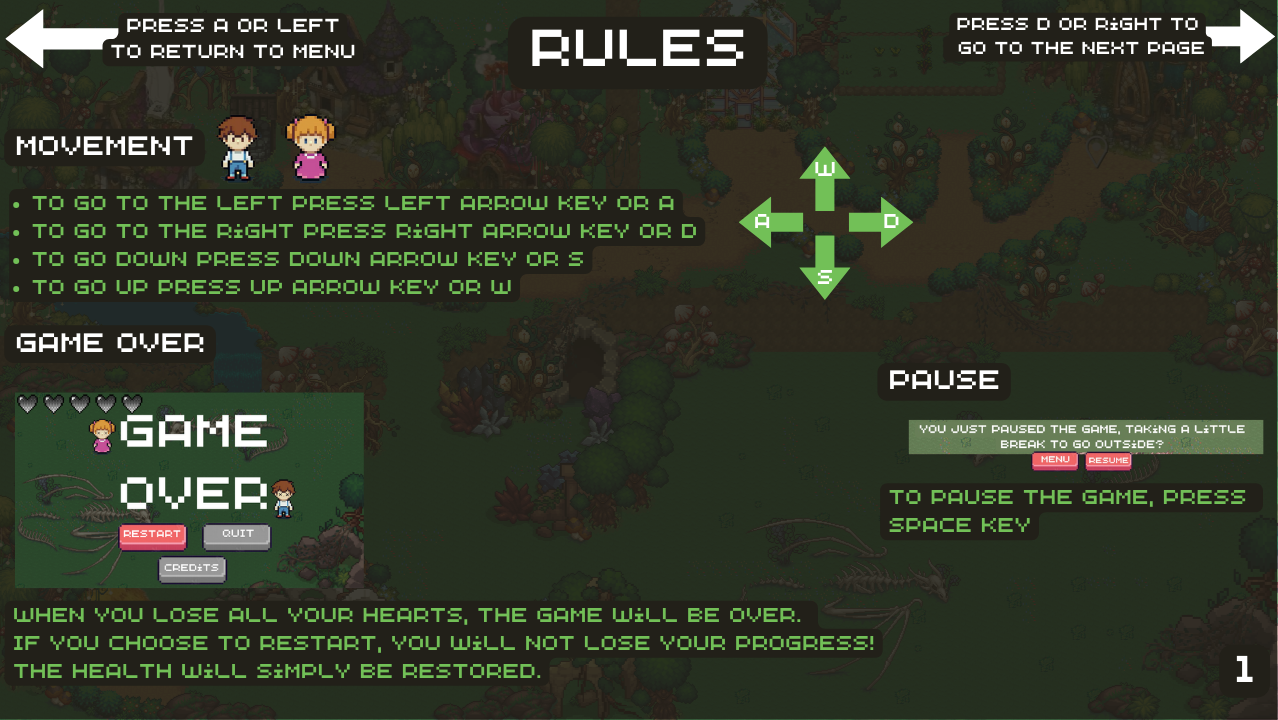
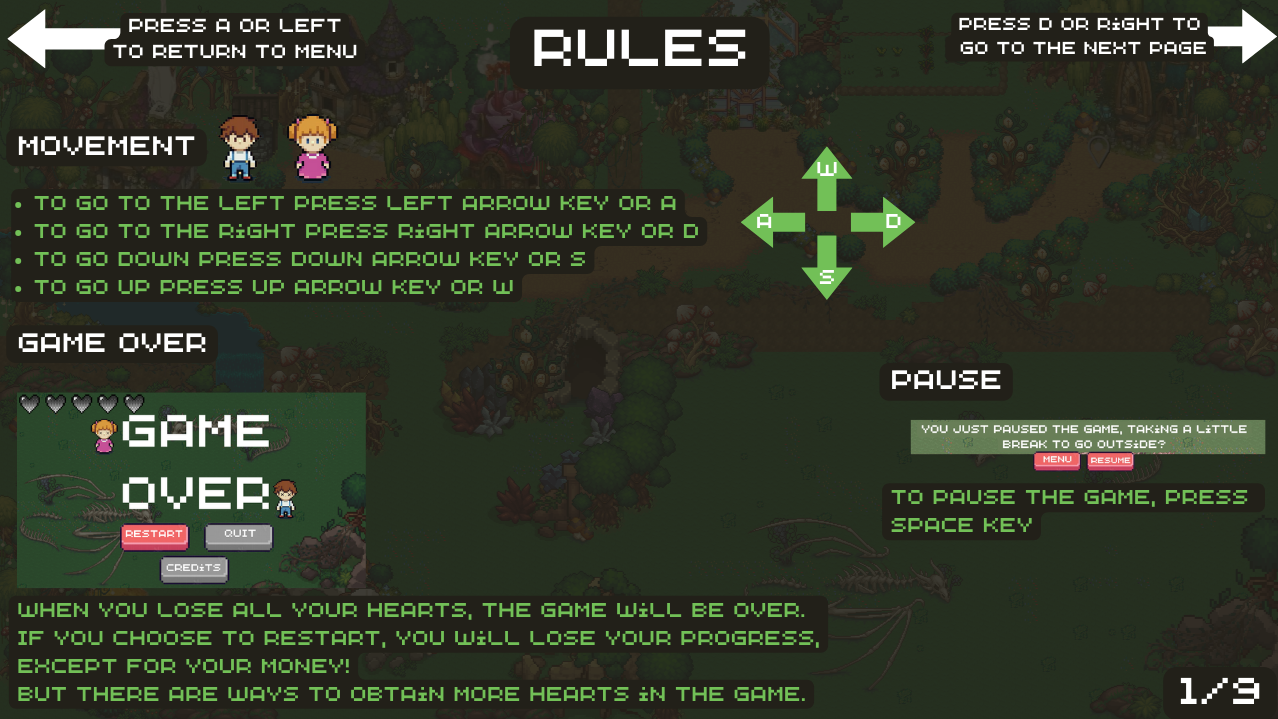
rules

diff --git a/config.py b/config.py
@@ -77,8 +77,13 @@ choose_character_image = pygame.transform.scale(pygame.image.load("images/screen
 rules_1 = pygame.transform.scale(pygame.image.load("images/rules/rules1.png"), resolution)
 rules_2 = pygame.transform.scale(pygame.image.load("images/rules/rules2.png"), resolution)
 rules_3 = pygame.transform.scale(pygame.image.load("images/rules/rules3.png"), resolution)
-
-rules_pages = [rules_1, rules_2, rules_3]
+rules_4 = pygame.transform.scale(pygame.image.load("images/rules/rules4.png"), resolution)
+rules_5 = pygame.transform.scale(pygame.image.load("images/rules/rules5.png"), resolution)
+rules_6 = pygame.transform.scale(pygame.image.load("images/rules/rules6.png"), resolution)
+rules_7 = pygame.transform.scale(pygame.image.load("images/rules/rules7.png"), resolution)
+rules_8 = pygame.transform.scale(pygame.image.load("images/rules/rules8.png"), resolution)
+rules_9 = pygame.transform.scale(pygame.image.load("images/rules/rules9.png"), resolution)
+rules_pages = [rules_1, rules_2, rules_3, rules_4, rules_5, rules_6, rules_7, rules_8, rules_9]
 
 # menu of the store
 menu_store = pygame.transform.scale(pygame.image.load("images/store/menu_store.png"), (750, 600))

diff --git a/interface.py b/interface.py
@@ -163,11 +163,9 @@ def rules_():
                     interface()
 
             if keys[pygame.K_d] or keys[pygame.K_RIGHT]:
-                if current_index != 2:
+                if current_index != 8:
                     # different from the index of the last page
                     screen.blit(rules_pages[current_index + 1], (0, 0))
                     current_index += 1
-                else:
-                    print("That was the last page, babes...")
 
         pygame.display.update()
